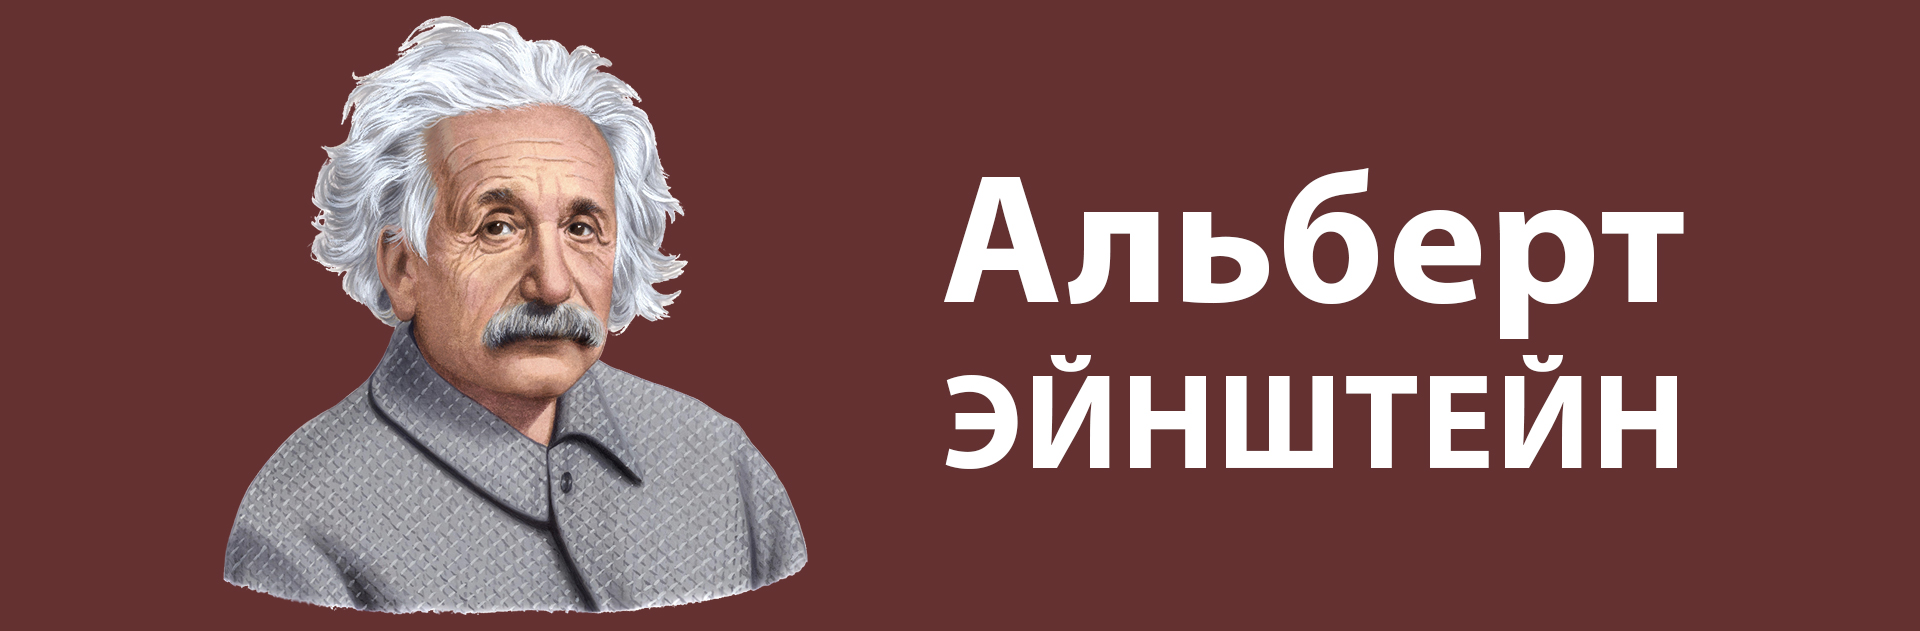
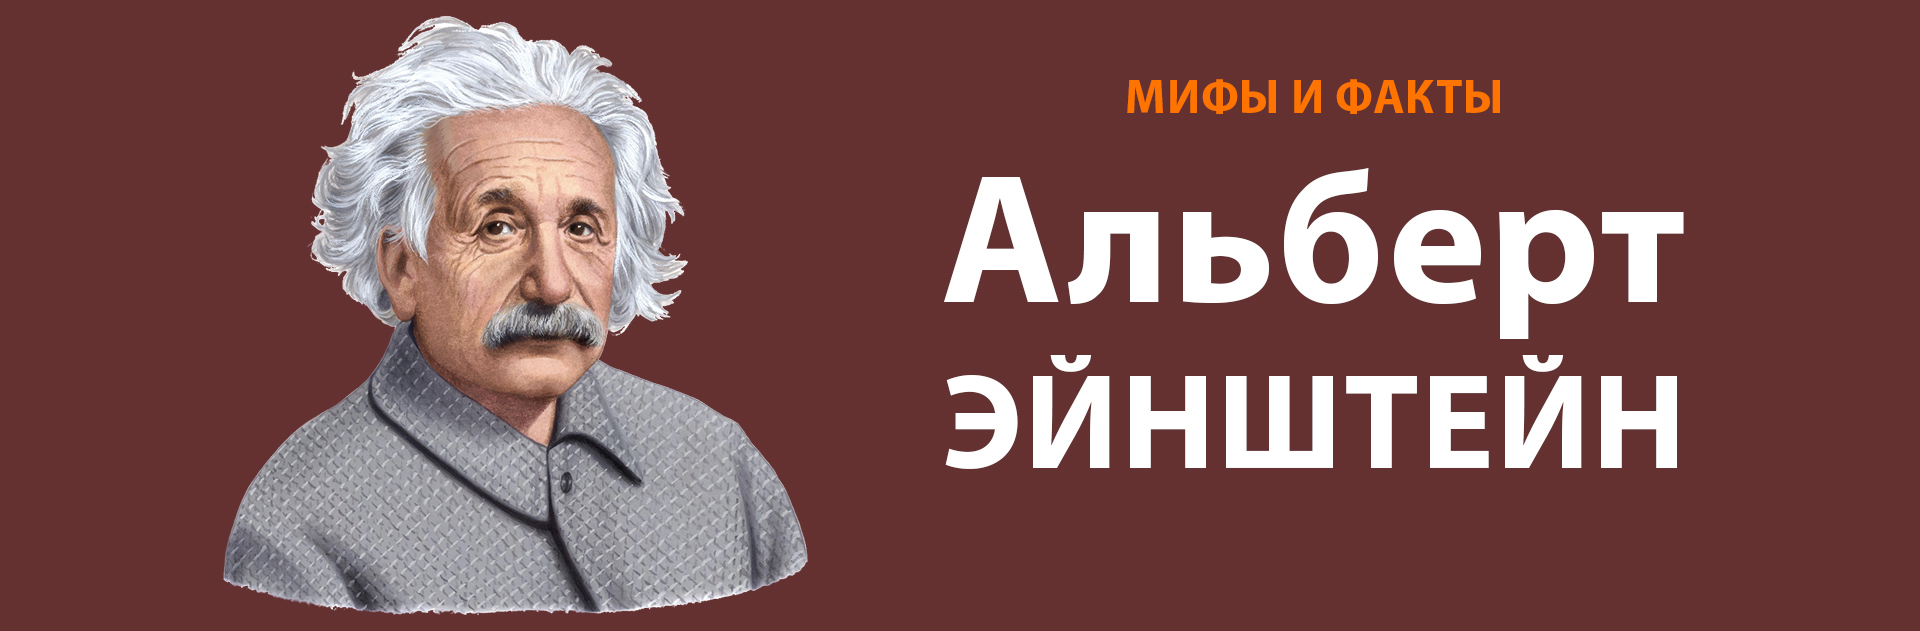
some changes

Changed region(s): [[0.5625, 0.1204, 0.7812, 0.1807]]

diff --git a/einstein.html b/einstein.html
@@ -15,7 +15,7 @@
 	<!-- meta character set -->
 	<meta charset="UTF-8">
 	<!-- Site Title -->
-	<title>Альберт Эйнштейн - 3D История</title>
+	<title>Альберт Эйнштейн. Мифы и факты - Физика</title>
 
 	<!--
 			Google Font
@@ -84,7 +84,7 @@
 			<div class="row d-flex align-items-center justify-content-center">
 				<div class="about-content col-lg-12">
 					<h1 class="text-white">
-						Альберт Эйнштейн
+						Альберт Эйнштейн. Мифы и факты
 					</h1>
 					<p>In the history of modern astronomy, there is probably no one greater leap forward than the building and launch of
 						the space telescope.</p>
@@ -96,7 +96,7 @@
 							<i class="lnr lnr-arrow-right"></i>
                             <a href="digital-lessons.html">Цифровые уроки</a>
                             <i class="lnr lnr-arrow-right"></i>
-							<a href="#">Альберт Эйнштейн</a>
+							<a href="#">Альберт Эйнштейн. Мифы и факты</a>
 						</span>
 					</div>
 				</div>
@@ -115,7 +115,7 @@
             <img src="digital-lessons/Einstein/lesson/1.jpg" alt="">
         </section>
         <section class="einstein-section-2">
-            <h1>Кто такой Альберт Эйнштейн?</h1>
+            <h1 class="einstein-section-heading">Кто такой Альберт Эйнштейн?</h1>
 
             <ul class="einstein-section-2__list">
                 <li class="einstein-section-2__item">
@@ -137,10 +137,89 @@
                     <a href="#">Какими были представления Эйнштейна о Вселенной??</a>
                 </li>
             </ul>
-        </section>
-        <section class="einstein-section-3">
-            ff
-        </section>
+		</section>
+		<section class="einstein-section-3">
+			<h2>В 1999 году журнал „Тайм” назвал Эйнштейна „Личностью века”. Что же стало основанием для такого решения? Какие важные открытия связаны с его именем, и почему он стал самым знаменитым учёным в наши дни?</h2>
+			<img src="./digital-lessons/Einstein/lesson/section-3-img.png" alt="Альберт Эйнштейн в детстве">
+			<p>Альберт Эйнштейн в детстве</p>
+			<div class="einstein-section-3__img">
+				<img src="./digital-lessons/Einstein/lesson/group-work.svg" alt="Групповая работа">
+			</div>
+			<h3>На шести небольших листах бумаги напишите первые три вопроса данного урока, то есть каждый вопрос по два раза. Сложите записки. Распределитесь на 6 групп. Каждая группа должна выбрать одну записку. И затем в течение следующих 10 минут ищите информацию по полученному вопросу. По истечении поискового времени в течение 2–3 минут проведите презентацию в классе по результатам вашего поиска. Ниже приведены полезные советы, которые помогут вам найти ответы на каждый из трёх вопросов.</h3>
+		</section>
+        <section class="einstein-section-4">
+			<div class="einstein-section-4-header">
+				<h1 class="einstein-section-heading">Когда и где жил Эйнштейн?</h1>
+				<h3>Поищите информацию о месте и дате рождения Альберта Эйнштейна! В каких странах он проживал в течение жизни? Сколько раз женился и сколько детей родилось? Какое место работы было первым? В каком году и за что стал лауреатом Нобелевской премии? Что стало причиной переселения в США?</h3>
+			</div>
+			<div class="einstein-section-4-biography">
+				<button class="einstein-section-btn">Краткая биография Альберта Эйнштейна</button>
+				<p>
+					Родился 14 марта 1879 года в Ульме (Германия).<br>
+					В 1894 году Эйнштейны переехали в итальянскую Павию.<br>
+					В 1896 году окончил среднюю школу в Арау в Швейцарии, затем был принят в Цюрихский Политехникум.<br>
+					В 1900 году получил диплом преподавателя математики и физики.<br>
+					С 1901 года являлся гражданином Швейцарии.<br>
+					С 1902 года работал экспертом в Федеральном Бюро патентования изобретений, поскольку не смог получить место преподавателя.<br>
+					В 1903 году женился на Милеве Марич, математике по профессии, сербке, происходящей из Воеводины. У них родилось трое детей: девочка и два мальчика.<br>
+					В 1905 году Эйнштейн отправил 4 научные статьи в журнал „Анналы физики”, каждая из которых оказалась эпохальным событием (см. ниже).<br>
+					В 1909 году был приглашён в Цюрихский университет на должность профессора, и, начиная с этого момента, приглашения на профессорскую должность поступали от различных университетов (напр., Прага, Берлин).<br>
+					В 1919 году развёлся с первой супругой и женился на кузине Эльзе Лёвенталь, общих детей у них не было.<br>
+					В 1921 году Эйнштейну была присуждена Нобелевская премия за теорию фотоэффекта.<br>
+					В декабре 1932 года Эйнштейн решается переселиться в США из-за нарастающей экспансии нацизма в гитлеровской Германии.<br>
+					В августе 1939 года по инициативе Лео Силарда посылает письмо президенту США, в котором просит ускорить применение атомной энергии в военных целях.<br>
+					В 1952 году от израильского правительства поступает предложение стать вторым президентом государства Израиль, но Эйнштейн его отклоняет.<br>
+					В последние годы жизни Эйнштейн работает над созданием единой теории поля, пытаясь объединить гравитацию, электромагнетизм и квантовую механику в Единую теорию, но этого до сегодняшнего дня не удалось никому.<br>
+					18 апреля 1955 года Альберт Эйнштейн скончался в больнице Принстона.<br>
+				</p>
+			</div>
+		</section>
+		<section class="einstein-section-5">
+			<h2 class="einstein-section-heading-h2">Правда ли, что Эйнштейн провалил экзамен по математике?</h2>
+			<img src="./digital-lessons/Einstein/lesson/question.svg" alt="Вопрос" class="einstein-section-question-img">
+			<h3 class="einstein-section-h3">Поищите информацию о том, действительно ли Эйнштейн провалил экзамен по математике! Если это неправда, то объясните остальным, почему такой слух мог распространиться! Найденный вами ответ на этот вопрос подтвердите картинками!</h3>
+			<div class="einstein-section-5-answer" >
+				<button class="einstein-section-btn" data-open-close-btn>Ответ</button>
+				<p data-open-close-content>Упорно поддерживается миф о том, что ещё в школе Эйнштейн провалил экзамен по математике. Вероятно, основанием этому послужило то, что он посещал среднюю школу не в одной стране.
+					Эйнштейн начал ходить в школу в Германии, где наивысшим баллом являлась 1, а завершил в Швейцарии, где наивысшей оценкой по шестибальной шкале было 6 баллов.
+					Поскольку чередовались баллы 6 и 1, поэтому при беглом осмотре казалось, что Эйнштейн провалил экзамен по математике.</p>
+			</div>
+			<!-- </div> -->
+		</section>
+		<div class="einstein-section-5-footer"></div>
+		<section class="einstein-section-6">
+			<div class="einstein-section-6-header">
+				<h2 class="einstein-section-heading-h2">Был ли Эйнштейн эксцентричным?</h2>
+				<img src="./digital-lessons/Einstein/lesson/question.svg" alt="Вопрос" class="einstein-section-question-img">
+			</div>
+		</section>
+		<section class="einstein-section-7">
+			<h3 class="einstein-section-h3">Поищите информацию о том, как выглядел Эйнштейн в детстве! Найдите истории, связанные со считающимися странными привычками учёного! Если найдётся время, поищите к этим рассказам и изображения!</h3>
+			<div class="einstein-section-7-answer" >
+				<button class="einstein-section-btn" data-open-close-btn>Ответ</button>
+				<p class="einstein-section-answer-p" data-open-close-content>Упорно поддерживается миф о том, что ещё в школе Эйнштейн провалил экзамен по математике. Вероятно, основанием этому послужило то, что он посещал среднюю школу не в одной стране.
+					Эйнштейн начал ходить в школу в Германии, где наивысшим баллом являлась 1, а завершил в Швейцарии, где наивысшей оценкой по шестибальной шкале было 6 баллов.
+					Поскольку чередовались баллы 6 и 1, поэтому при беглом осмотре казалось, что Эйнштейн провалил экзамен по математике.</p>
+			</div>
+		</section>
+		<section class="einstein-section-8">
+			<img src="./digital-lessons/Einstein/lesson/section-8-img.jpg" alt="Эйнштей показывет язык">
+			<h2 class="lesson-section-h2">Одна из самых знаменитых фотографий, икона поп-культуры, была изготовлена 14 марта 1951 года, непосредственно после празднования 72-летия Эйнштейна. Многочисленная группа репортёров после банкета осаждала знаменитого учёного, но он был слишком уставшим и на просьбу улыбнуться, сидя в автомобиле, лишь на мгновение показал язык, что и попало в камеру одного из фотографов. Никто не обиделся на данную гримасу, все восприняли это, как очередную эксцентричную выходку гения.
+			</h2>
+			<h3 class="einstein-section-h3">Узнайте имя фотографа и при каких обстоятельствах был сделан знаменитый снимок!
+			</h3>
+			<div class="einstein-section-5-answer" >
+				<button class="einstein-section-btn" data-open-close-btn>Ответ</button>
+				<p class="einstein-section-answer-p" data-open-close-content>Фотографом был Артур Сасс, представлявший информагентство „Юнайтед Пресс” (United Press). Снимок фотографа Артура Сасса был сделан практически случайно после вечеринки в честь 72-летия Эйнштейна. Сасс подошел к физику, когда тот уже сел в машину, и попросил его попозировать. Наибольшую известность получил обрезанный вариант снимка, где виден только Эйнштейн.					
+					Сам Альберт Эйнштейн высоко оценил фотографию Сасса, заказал большое количество копий и, впоследствии, вкладывал их в поздравительные открытки.
+					</p>
+			</div>
+		</section>
+		<section class="einstein-section-9">
+			<h2 class="einstein-section-heading-h2">
+				Как одевался Эйнштейн?
+			</h2>
+		</section>
     </section>
 
     <!-- End lesson area  -->

diff --git a/css/arauz.css b/css/arauz.css
@@ -141,7 +141,7 @@
     padding-right: 100px;
     padding-bottom: 100px;
 }
-.einstein-section-2 h1 {
+.einstein-section-heading {
     color: #ffffff;
     text-align: center;
     font-size: 65px;
@@ -172,11 +172,169 @@
     background-color: #ffffff;
     border-radius: 50%;
 }
-
 .einstein-section-3 {
-    padding: 200px 0;
-    background-color: #ff7400;
+    background-color: #643131;
+    padding: 0 200px 200px;
+    clip-path: polygon(100% -1%, 0% -1%, 0% 95%, 50% 100%, 100% 95%);
 }
+.einstein-section-3 h2 {
+    color: #ffffff;
+    text-align: center;
+}
+.einstein-section-3 img {
+    display: block;
+    margin: 0 auto;
+    margin-top: 50px;
+    max-width: 700px;
+}
+.einstein-section-3 p {
+    color: #ffffff;
+    text-align: center;
+    font-size: 22px;
+}
+.einstein-section-3__img {
+    margin: 0 auto;
+    margin-top: 100px;
+    width: 250px;
+    height: 250px;
+    border-radius: 50%;
+    padding: 25px;
+    /* background-color: #283367; */
+    background-color: #643131;
+    display: flex;
+    justify-content: center;
+    align-items: center;
+}
+.einstein-section-3__img img {
+    width: 90%;
+    margin: 0;
+    /* height: 90%; */
+}
+.einstein-section-3 h3 {
+    margin-top: 50px;
+    color: #ffffff;
+    font-size: 35px;
+    padding: 0 150px;
+}
+
+.einstein-section-4 {
+    /* padding: 200px; */
+    /* padding-top: 200px; */
+    /* background-color: #ff7400; */
+    /* clip-path: polygon(100% 0%, 50% 10%, 0% 0%, 0% 100%, 100% 100%); */
+}
+.einstein-section-4-header {
+    padding: 200px 200px 100px;
+    /* padding-top: 200px; */
+    background-color: #ff7400;
+    clip-path: polygon(100% 0%, 50% 16%, 0% 0%, 0% 100%, 100% 100%);
+}
+.einstein-section-4 h3 {
+    margin-top: 50px;
+    color: #ffffff;
+    font-size: 35px;
+    padding: 0 150px;
+}
+.einstein-section-btn {
+    margin: 0 auto;
+    display: block;
+    width: 700px;
+    height: 50px;
+    background-color: transparent;
+    color: #ffffff;
+    border: 2px solid #fff;
+    border-radius: 50px;
+    text-transform: uppercase;
+    font-size: 20px;
+    margin-bottom: 30px;
+    margin-top: 0px;
+    transition: .3s;
+}
+.einstein-section-btn:hover {
+    background-color: #283367;
+    border: 2px solid #283367;
+
+}
+.einstein-section-btn:focus {
+    outline: none;
+    border: 2px solid #283367;
+}
+.einstein-section-4-biography {
+    background-color: #ff7400;
+    padding: 0 200px 100px;
+}
+.einstein-section-4-biography p {
+    color: #ffffff;
+    font-size: 24px;
+    padding: 0 150px;
+}
+.einstein-section-5 {
+    background-color: #ff7400;
+    padding: 0 200px;
+}
+.einstein-section-heading-h2 {
+    color: #ffffff;
+    font-size: 50px;
+    text-align: center;
+}
+.einstein-section-question-img {
+    margin: auto;
+    margin-top: 35px;
+    display: block;
+    width: 450px;
+}
+.einstein-section-h3 {
+    margin-top: 50px;
+    color: #ffffff;
+    font-size: 35px;
+    padding: 0 150px;
+    margin-bottom: 50px;
+}
+.einstein-section-5-answer p,
+.einstein-section-answer-p {
+    color: #ffffff;
+    font-size: 24px;
+    padding: 0 150px;
+}
+.einstein-section-5-footer {
+    background-color: #ff7400;
+    padding: 100px 0;
+    clip-path: polygon(100% -1%, 0% -1%, 0% 45%, 50% 100%, 100% 45%);
+}
+.einstein-section-6-header {
+    padding-top: 200px;
+    clip-path: polygon(100% 0%, 50% 16%, 0% 0%, 0% 100%, 100% 100%);
+    background-color: #643131;
+}
+.einstein-section-7 {
+    background-color: #643131;
+    padding: 0 200px; 
+}
+.einstein-section-7 .einstein-section-h3 {
+    margin-top: 0;
+    padding-top: 50px;
+}
+.einstein-section-8 {
+    background-color: #643131;
+    padding-top: 50px;
+    padding: 0 200px; 
+}
+.einstein-section-8 img {
+    display: block;
+    margin: 0 auto;
+    padding-top: 50px;
+    margin-bottom: 50px;
+}
+.lesson-section-h2 {
+    color: #ffffff;
+    text-align: center;
+
+}
+.einstein-section-9 {
+    padding-top: 50px;
+    background-color: #643131;
+}
+
 
  /* Newton styles start  */
 .newton-section-1 img {
